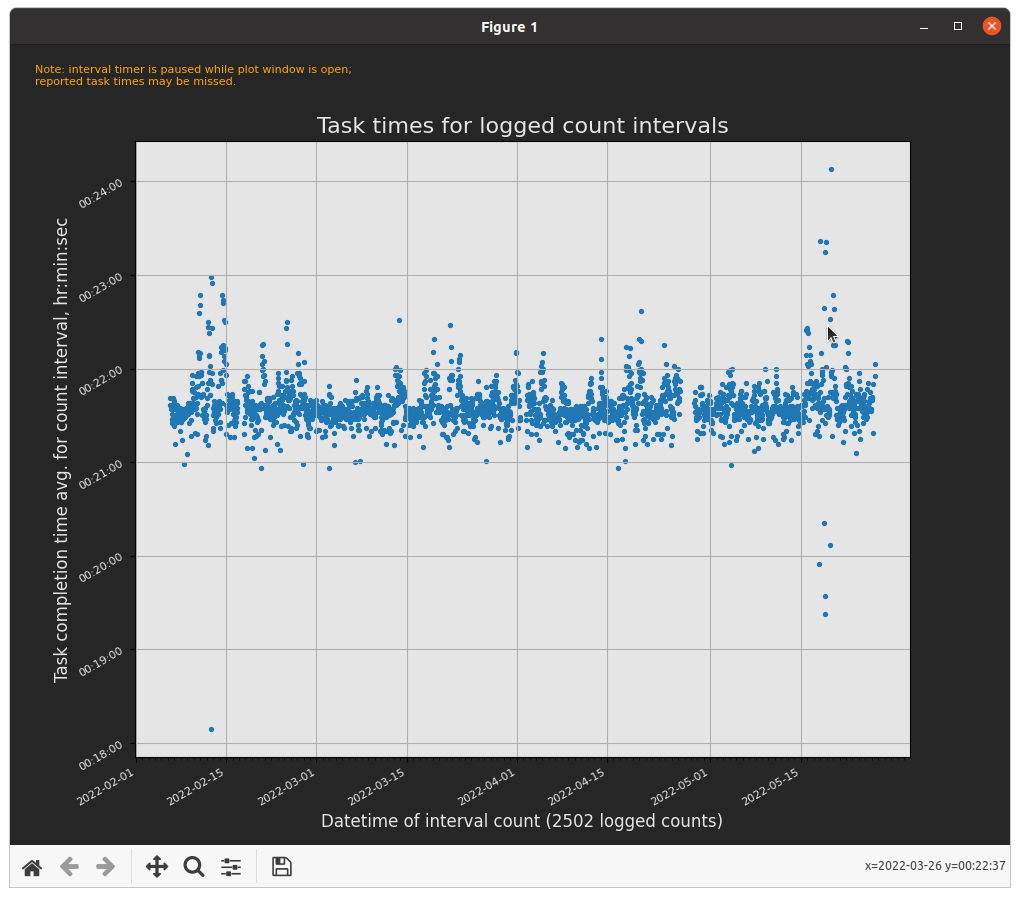
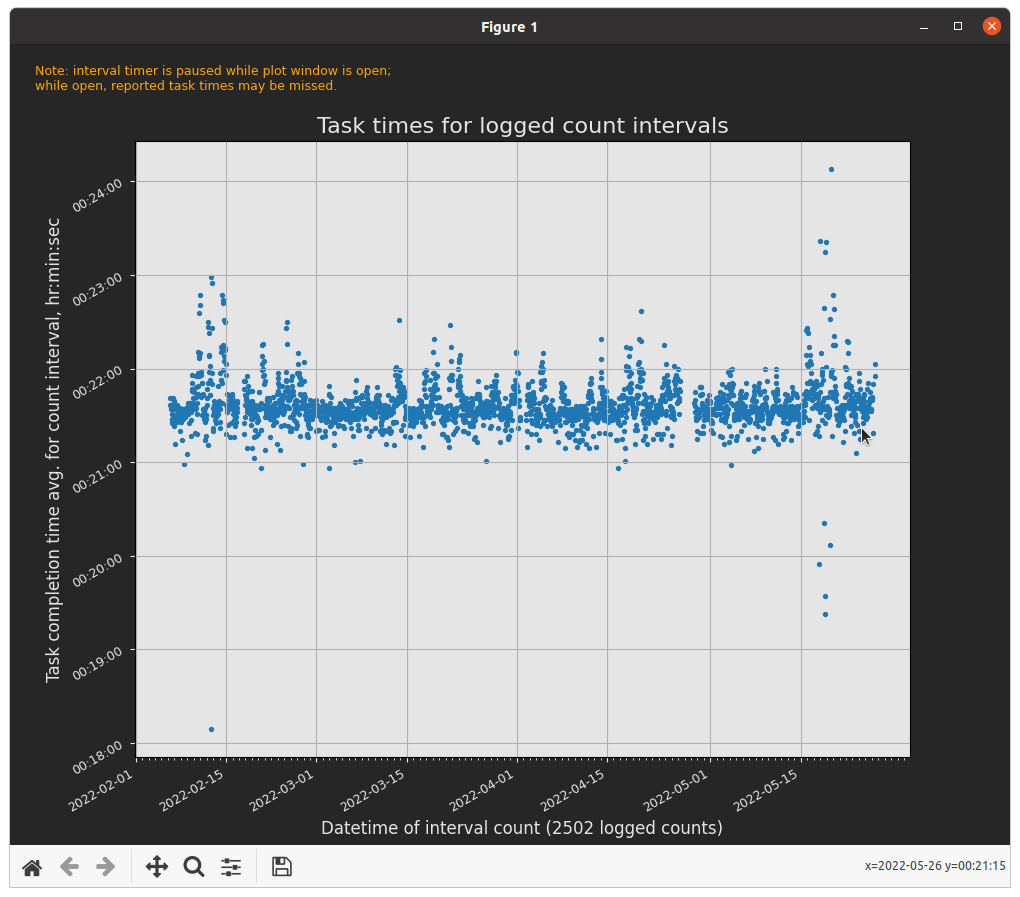
make plot ticks visible

diff --git a/COUNTmodules/logs.py b/COUNTmodules/logs.py
@@ -363,7 +363,7 @@ class Logs:
         # https://stackoverflow.com/questions/3899980/
         #   how-to-change-the-font-size-on-a-matplotlib-plot
         if MY_OS in 'lin, win':
-            small_font = 8
+            small_font = 9
             medium_font = 12
             bigger_font = 16
         else:  # macOS needs larger sizes
@@ -372,8 +372,8 @@ class Logs:
             bigger_font = 19
         plt.rc('axes', titlesize=bigger_font, titlecolor=light)
         plt.rc('axes', labelsize=medium_font, labelcolor=light)
-        plt.rc('xtick', labelsize=small_font, labelcolor=light)
-        plt.rc('ytick', labelsize=small_font, labelcolor=light)
+        plt.rc('xtick', labelsize=small_font, labelcolor=light, color=light)
+        plt.rc('ytick', labelsize=small_font, labelcolor=light, color=light)
         # plt.rc('legend', fontsize=small_font)  # legend fontsize
         # plt.rc('figure', titlesize=bigger_font)  # fontsize of the figure title
         # plt.rc('font', size=small_font)  # controls default text sizes
@@ -391,7 +391,7 @@ class Logs:
         ax.set_ylabel('Task completion time avg. for count interval, hr:min:sec')
         ax.set_title("Task times for logged count intervals")
         ax.annotate('Note: interval timer is paused while plot window is open;\n'
-                    'reported task times may be missed.',
+                    'while open, reported task times may be missed.',
                     xy=(.025, .975), xycoords='figure fraction',
                     horizontalalignment='left', verticalalignment='top',
                     fontsize=small_font, color='orange')
